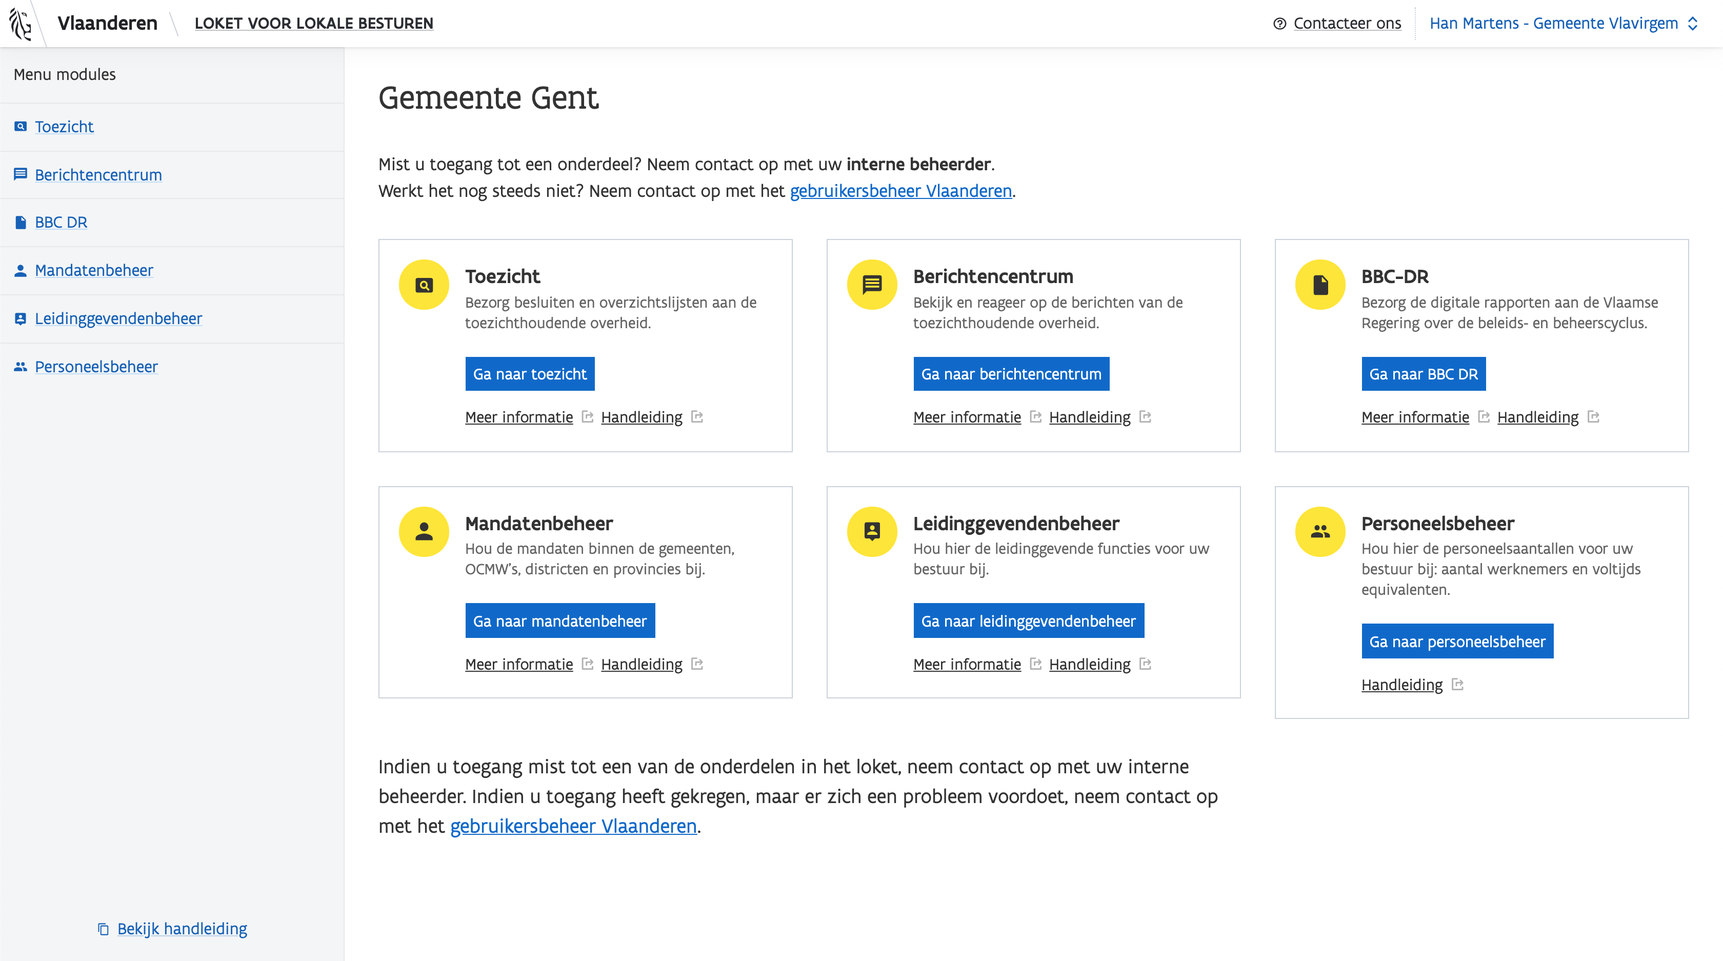
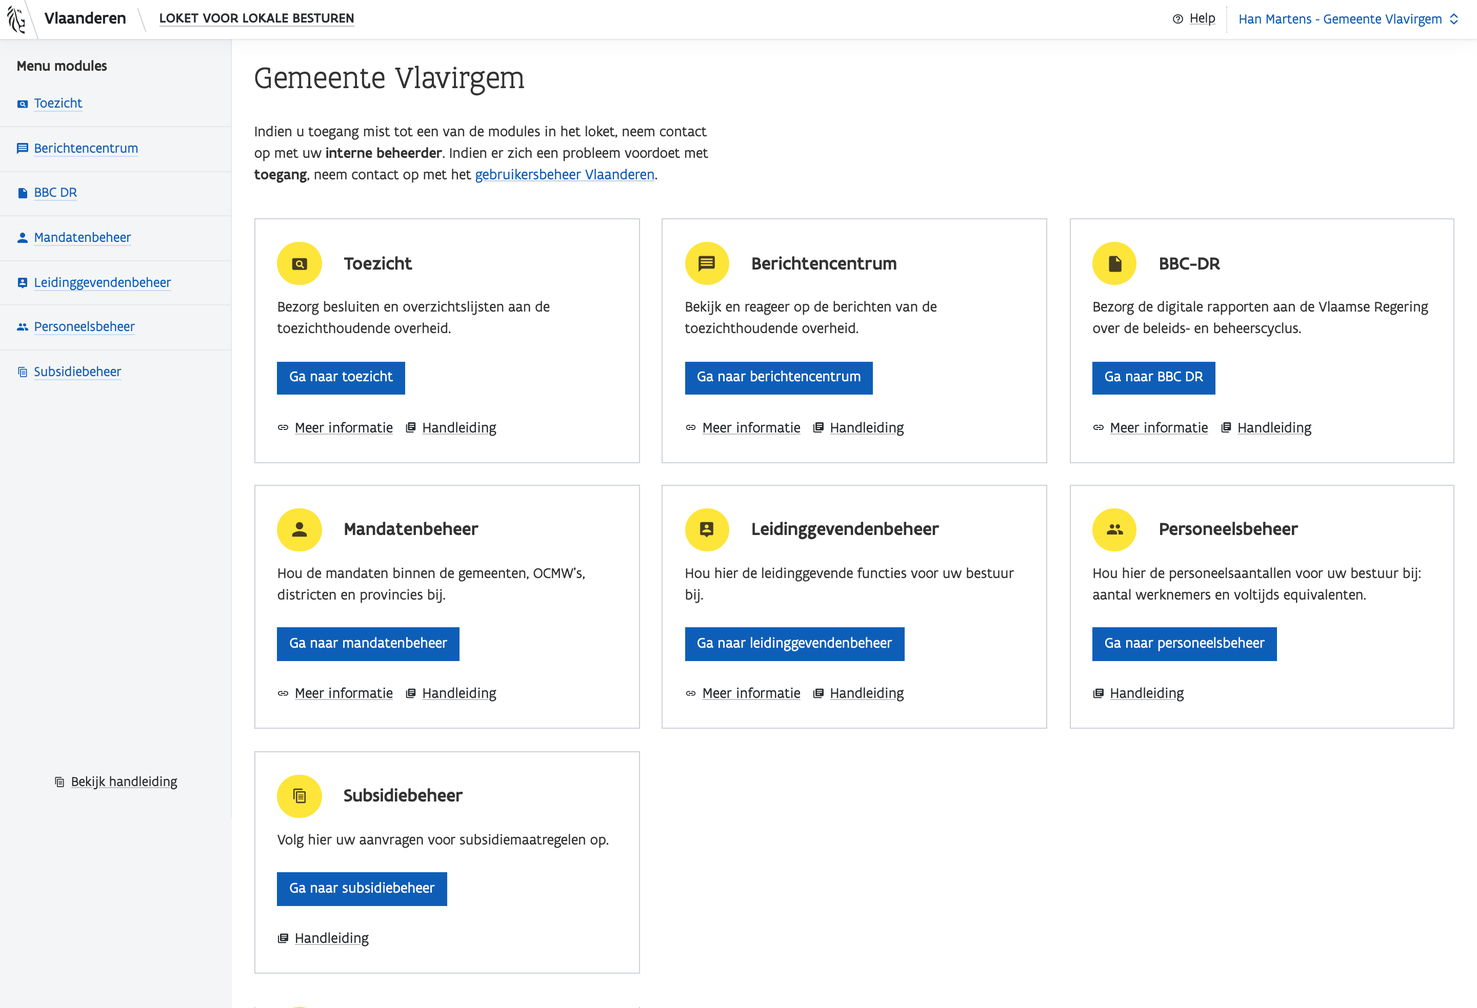
Update subsidies part

diff --git a/index.html b/index.html
@@ -80,7 +80,7 @@
         <div class="au-o-layout">
           <div class="au-c-content au-c-content--large au-u-margin-bottom-large">
             <h1>Handleiding Loket Lokaal Bestuur</h1>
-            <p>Deze handleiding behoort tot de applicatie <a href="https://loket.lokaalbestuur.vlaanderen.be/login" target="_blank" rel="noopener" class="au-c-link">Loket voor Lokale Besturen</a></p>
+            <p>Deze handleiding behoort tot de applicatie <a href="https://loket.lokaalbestuur.vlaanderen.be/login" target="_blank" rel="noopener noreferrer" class="au-c-link">Loket voor Lokale Besturen</a></p>
           </div>
           <div class="au-o-grid">
             <div class="au-o-grid__item au-u-1-2@medium">
@@ -403,8 +403,34 @@
                         </li>
                       </ul>
                     </li>
+
                     <li class="vl-side-navigation__item vl-side-navigation__item--parent">
-                      <a class="vl-side-navigation__toggle" href="#gebruikersbeheer" data-vl-child="content-12" aria-label="Navigeer naar onderdeel gebruikersbeheer">
+                      <a class="vl-side-navigation__toggle" href="#subsidiebeheer" data-vl-child="content-12" aria-label="Navigeer naar onderdeel subsidiebeheer">
+                        Subsidiebeheer
+                        <svg role="img" class="au-c-icon au-c-icon--nav-right" aria-hidden="true">
+                          <use xlink:href="assets/appuniversum-symbolset.svg#nav-right"></use>
+                        </svg>
+                      </a>
+                      <ul>
+                        <li class="vl-side-navigation__item">
+                          <a href="#subsidiebeheer-locatie" data-vl-parent="content-12" aria-label="Navigeer naar onderdeel subsidiebeheer locatie">Locatie</a>
+                        </li>
+                        <li class="vl-side-navigation__item">
+                          <div><a href="#subsidiebeheer-overzicht" data-vl-parent="content-12" aria-label="Navigeer naar onderdeel subsidiebeheer overzicht">Overzicht &amp; bekijken</a></div>
+                        </li>
+                        <li class="vl-side-navigation__item">
+                          <div><a href="#subsidiebeheer-aanleveren" data-vl-parent="content-12" aria-label="Navigeer naar onderdeel subsidie aanvragen">Een nieuwe subsidie aanvragen</a></div>
+                        </li>
+                        <li class="vl-side-navigation__item">
+                          <div><a href="#subsidiebeheer-formulier" data-vl-parent="content-12" aria-label="Navigeer naar onderdeel subsidie formulier invullen">Het formulier invullen</a></div>
+                        </li>
+                        <li class="vl-side-navigation__item">
+                          <div><a href="#subsidiebeheer-wijziging" data-vl-parent="content-12" aria-label="Navigeer naar onderdeel subsidiebeheer een wijziging doorvoeren">Een wijziging doorvoeren</a></div>
+                        </li>
+                      </ul>
+                    </li>
+                    <li class="vl-side-navigation__item vl-side-navigation__item--parent">
+                      <a class="vl-side-navigation__toggle" href="#gebruikersbeheer" data-vl-child="content-13" aria-label="Navigeer naar onderdeel gebruikersbeheer">
                         Gebruikersbeheer
                         <svg role="img" class="au-c-icon au-c-icon--nav-right" aria-hidden="true">
                           <use xlink:href="assets/appuniversum-symbolset.svg#nav-right"></use>
@@ -422,11 +448,11 @@
                   <h2 class="">Aanmelden</h2>
                   <p>Om toegang te krijgen tot het loket lokale besturen, moet u als gebruiker gekend zijn in de gebruikersbeheer lokale besturen. De <strong>lokale beheerder</strong> die in elk bestuur aanwezig is kan u hier toegang tot geven. Meestal is dit de secretaris/algemeen directeur, griffier of iemand die door de organisatie werd aangeduid. U gaat dus best bij hen ten rade als u niet weet wie uw lokale beheerder is. <a href="#gebruikersbeheer">Meer informatie over gebruikersbeheer</a>.</p>
 
-                  <p>Surf naar <a href="https://loket.lokaalbestuur.vlaanderen.be/login" target="_blank" rel="noopener">https://loket.lokaalbestuur.vlaanderen.be/login</a> om veilig naar de applicatie te surfen.</p>
+                  <p>Surf naar <a href="https://loket.lokaalbestuur.vlaanderen.be/login" target="_blank" rel="noopener noreferrer">https://loket.lokaalbestuur.vlaanderen.be/login</a> om veilig naar de applicatie te surfen.</p>
 
                   <article id="aanmelden-browser">
                     <h3>Browser: Chrome, Firefox of Safari</h3>
-                    <p>Om optimaal gebruik te maken van de applicatie, gebruikt u best <a href="https://www.google.com/chrome/" target="_blank" rel="noopener">Chrome</a>, <a href="https://www.mozilla.org/nl/firefox/new/" target="_blank" rel="noopener">Firefox</a> of Safari (Mac).</p>
+                    <p>Om optimaal gebruik te maken van de applicatie, gebruikt u best <a href="https://www.google.com/chrome/" target="_blank" rel="noopener noreferrer">Chrome</a>, <a href="https://www.mozilla.org/nl/firefox/new/" target="_blank" rel="noopener noreferrer">Firefox</a> of Safari (Mac).</p>
                     <!-- TODO IE? -->
                     <p>Het kan echter dat bepaalde functionaliteiten niet (volledig) werken zoals het hoort. Mocht u dit opmerken, kunt u ons dit altijd laten weten via <a href="mailto:LoketLokaalBestuur@vlaanderen.be">LoketLokaalBestuur@vlaanderen.be</a>.</p>
                   </article>
@@ -462,11 +488,11 @@
                     </li>
                     <li>
                       <h4>Internet Explorer</h4>
-                      <p>Bezoek <a href="https://support.microsoft.com/nl-be/help/17479/windows-internet-explorer-11-change-security-privacy-settings" target="_blank" rel="noopener">https://support.microsoft.com/nl-be/help/17479/windows-internet-explorer-11-change-security-privacy-settings</a> en kies <strong>Pop-upblokkering</strong>.
+                      <p>Bezoek <a href="https://support.microsoft.com/nl-be/help/17479/windows-internet-explorer-11-change-security-privacy-settings" target="_blank" rel="noopener noreferrer">https://support.microsoft.com/nl-be/help/17479/windows-internet-explorer-11-change-security-privacy-settings</a> en kies <strong>Pop-upblokkering</strong>.
                     </li>
                     <li>
                       <h4>Edge</h4>
-                      <p>Bezoek <a href="https://support.microsoft.com/nl-be/help/4026392/windows-block-pop-ups-in-microsoft-edge" target="_blank" rel="noopener">https://support.microsoft.com/nl-be/help/4026392/windows-block-pop-ups-in-microsoft-edge</a>.
+                      <p>Bezoek <a href="https://support.microsoft.com/nl-be/help/4026392/windows-block-pop-ups-in-microsoft-edge" target="_blank" rel="noopener noreferrer">https://support.microsoft.com/nl-be/help/4026392/windows-block-pop-ups-in-microsoft-edge</a>.
                     </li>
                   </ul>
 
@@ -523,7 +549,7 @@
                   </article>
 
                   <h3>Probleem</h3>
-                  <p>Indien u toegang wil aanvragen tot het loket, neem contact op met uw lokale beheerder. Indien er zich een probleem voordoet, bekijk de mogelijke problemen en hun oplossingen op <a href="https://overheid.vlaanderen.be/ict/ict-diensten/gebruikersbeheer" target="_blank" rel="noopener">gebruikersbeheer Vlaanderen</a>. Vindt u daar het antwoord niet, neem contact op met 1700.</p>
+                  <p>Indien u toegang wil aanvragen tot het loket, neem contact op met uw lokale beheerder. Indien er zich een probleem voordoet, bekijk de mogelijke problemen en hun oplossingen op <a href="https://overheid.vlaanderen.be/ict/ict-diensten/gebruikersbeheer" target="_blank" rel="noopener noreferrer">gebruikersbeheer Vlaanderen</a>. Vindt u daar het antwoord niet, neem contact op met 1700.</p>
                 </section>
 
                 <hr class="au-c-hr au-c-hr--huge" />
@@ -536,7 +562,7 @@
                   <p>Na het kiezen van een module, kan u bovenaan altijd terugkeren naar het hoofdmenu of op de dropdown "Menu Modules" klikken.</p>
                   <img src="img/navigatie/breadcrumb.png" class="au-c-manual-picture au-u-margin-bottom" alt="">
                   <img src="img/navigatie/dropdown.png" class="au-c-manual-picture au-u-margin-bottom" alt="">
-                  <p>Indien u toegang wil aanvragen tot bepaalde onderdelen van het loket, neem contact op met uw lokale beheerder Indien er zich een probleem voordoet, bekijk de mogelijke problemen en hun oplossingen op <a href="https://overheid.vlaanderen.be/ict/ict-diensten/gebruikersbeheer" target="_blank" rel="noopener">gebruikersbeheer Vlaanderen</a>. Vindt u daar het antwoord niet, neem contact op met 1700.</p>
+                  <p>Indien u toegang wil aanvragen tot bepaalde onderdelen van het loket, neem contact op met uw lokale beheerder Indien er zich een probleem voordoet, bekijk de mogelijke problemen en hun oplossingen op <a href="https://overheid.vlaanderen.be/ict/ict-diensten/gebruikersbeheer" target="_blank" rel="noopener noreferrer">gebruikersbeheer Vlaanderen</a>. Vindt u daar het antwoord niet, neem contact op met 1700.</p>
                 </section>
 
                 <hr class="au-c-hr au-c-hr--huge" />
@@ -568,7 +594,7 @@
                     <p>Via de knop rechts <strong>Maak nieuwe melding</strong> kan u een type besluit of besluitenlijst versturen.</p>
                     <img src="img/toezicht/toezicht-0-0-overzicht-empty.png" class="au-u-margin-bottom-large au-c-manual-picture" alt="">
 
-                    <p>Eerst kan u bij het veld <strong>Type dossier</strong> kiezen tussen het aanleveren van dossiers. U kan scrollen doorheen de lijst, of typen in het zoekveld om het type dossier te vinden.</p>
+                    <p>Eerst kan u bij het veld <strong>Type dossier</strong> kiezen tussen de dossiers die u kan aanleveren. U kan scrollen doorheen de lijst, of typen in het zoekveld om het type dossier te vinden.</p>
                     <img src="img/toezicht/toezicht-2-1-dropdown.png" class="au-c-manual-picture au-u-margin-bottom" alt="">
 
                     <div class="au-o-grid">
@@ -620,7 +646,7 @@
 
                 <hr class="au-c-hr au-c-hr--huge">
 
-                <!-- --------------------------------- Gebruikersbeheer ---------------------------------------------------------->
+                <!-- --------------------------------- Berichtencentrum ---------------------------------------------------------->
                 <section id="berichtencentrum" class="vl-region au-c-content">
                   <h2>Berichtencentrum</h2>
                   <p>We gebruiken de Module Berichtencentrum voor een deel van de digitale communicatie tussen de lokale besturen en de toezichthoudende overheid.</p>
@@ -2052,13 +2078,117 @@
 
                 <hr class="au-c-hr au-c-hr--huge" />
 
+
+                <!-- --------------------------------- Subsidiebeheer ---------------------------------------------------------- -->
+                <section id="subsidiebeheer" class="vl-region au-c-content">
+                  <h2>Subsidiebeheer</h2>
+
+                  <div id="subsidiebeheer-locatie">
+                    <h3>Locatie</h3>
+                    <p>U kan via de overzichtspagina of via de knop "Menu modules" naar het subsidiebeheer navigeren. Hier kan u nieuwe subsidieaanvragen indienen waarvoor een oproep is gelanceerd.</p>
+                    <img src="img/navigatie/navigatie-overzicht-subsidiebeheer.png" class="au-c-manual-picture au-u-margin-bottom" alt="">
+                  </div>
+
+                  <div id="subsidiebeheer-overzicht">
+                    <h3 class="au-u-margin-bottom-small">Overzicht &amp; bekijken</h3>
+
+                    <h4>Overzicht</h4>
+                    <p>In eerste instantie zal uw overzicht leeg zijn. Concepten en verstuurde subsidieaanvragen komen in dit overzicht terecht. U kan een nieuwe subsidie aanvragen door op de knop <strong>Vraag nieuwe subsidie aan</strong> te klikken.</p>
+                    <img src="img/subsidies/subsidies-0-0-overzicht-empty.png" class="au-c-manual-picture" alt="">
+                    <p class="au-u-margin-bottom-large">Ontdek hier meer <a href="http://miet.be" target="_blank" rel="noopener noreferrer">informatie over de subsidieoproepen waarvoor u hier een subsidieaanvraag kan indienen</a>.</p>
+
+                    <h4>Bekijken</h4>
+                    <p>U kan de details van uw subsidieaanvraag bekijken door op Bekijk te klikken.
+                    </p>
+                    <img src="img/subsidies/subsidies-0-0-overzicht-full.png" class="au-c-manual-picture" alt="">
+                    <ul class="au-u-margin-bottom-large">
+                      <li>Subsidieaanvragen met status <strong>Concept</strong>: deze aanvraag is nog niet verzonden naar de Vlaamse overheid, u kan de velden in het formulier nog aanpassen en aanvullen.</li>
+                      <li>Subsidieaanvragen met status <strong>Verstuurd</strong>: deze aanvraag is verzonden naar de Vlaamse overheid, u kan de velden in het formulier niet meer aanpassen. Indien u vragen heeft of een fout wil rechtzetten, stuur een mail naar <a href="mailto:LoketLokaalBestuur@vlaanderen.be" class="au-c-link">LoketLokaalBestuur@vlaanderen.be</a>.</li>
+                    </ul>
+                  </div>
+
+                  <div id="subsidiebeheer-aanleveren">
+                    <h3>Een nieuwe subsidie aanvragen</h3>
+                    <p>Via de knop rechts <strong>Vraag nieuwe subsidie</strong> kan u een nieuwe subsidie aanvragen.</p>
+                    <img src="img/subsidies/subsidies-0-0-overzicht-empty.png" class="au-c-manual-picture" alt="">
+
+                    <p class="au-u-margin-bottom-large">Ontdek hier meer <a href="http://miet.be" target="_blank" rel="noopener noreferrer">informatie over de subsidieoproepen waarvoor u hier een subsidieaanvraag kan indienen</a>.</p>
+                  </div>
+
+                  <div id="subsidiebeheer-formulier">
+                    <h3>Formulier invullen</h3>
+                    <p class="au-u-margin-bottom">Afhankelijk van de subsidieoproep waarvoor u een aanvraag wenst in de dienen, krijgt u andere velden om in te vullen.</p>
+
+                    <h4 class="au-u-margin-bottom-small" id="subsidiebeheer-formulier-aanvrager">Aanvrager</h4>
+                    <p class="au-u-margin-bottom">Het veld <strong>Aanvrager</strong> wordt automatisch ingevuld, met de bestuurseenheid waarmee u bent ingelogd in het loket van lokale besturen. Dit veld kan u niet aanpassen.</p>
+                    <p>Wenst u een subsidie in te dienen voor een andere bestuurseenheid (vb. OCMW), dan klikt u op de dubbele pijltjes, rechtsboven het scherm, en kiest u voor <a href="#wisselen-bestuurseenheid">Wissel van bestuurseenheid</a>. U logt in met de gewenste bestuurseenheid en start een nieuwe subsidieaanvraag.</p>
+                    <img src="img/subsidies/subsidies-1-nieuw.png" class="au-c-manual-picture au-u-margin-bottom-large" alt="">
+
+                    <h4 id="subsidiebeheer-formulier-subsidie" class="au-u-margin-bottom-small">Kies subsidie</h4>
+                    <h5>Kies eerst de subsidiemaatregel.</h5>
+                    <p>Eerst kan u bij het veld <strong>subsidiemaatregel</strong> kiezen, de soort subsidie. U kan scrollen doorheen de lijst, of typen in het zoekveld om het type dossier te vinden.</p>
+                    <img src="img/subsidies/subsidies-2-1-dropdown-1.png" class="au-c-manual-picture au-u-margin-bottom" alt="">
+
+                    <h5>Kies vervolgens de reeks</h5>
+                    <p>Selecteer daarna de reeks, of periode, waarvoor u een subsidie wenst aan te vragen.</p>
+                    <img src="img/subsidies/subsidies-2-1-dropdown-2.png" class="au-c-manual-picture au-u-margin-bottom" alt="">
+
+                    <ul>
+                      <li>U kan één reeks per subsidieaanvraag indienen. Indien u ook subsidies wenst aan te vragen voor een andere periode, dient u een nieuwe subsidieaanvraag in.</li>
+                      <li>Indien de reeks die u zoekt niet wordt getoond, dan
+                        <ul>
+                          <li>dan wordt deze niet beschikbaar gesteld;</li>
+                          <li>is deze nog niet gestart;</li>
+                          <li>is deze inmiddels afgelopen.</li>
+                        </ul>
+                      </li>
+                    </ul>
+
+                    <p class="au-u-margin-bottom-small">Vervolgens verschijnen de overige velden, die afhankelijk zijn van het type subsidiemaatregel en de reeks die u gekozen heeft.</p>
+                    <img src="img/subsidies/subsidies-2-2-dropdown-result.png" class="au-c-manual-picture au-u-margin-bottom" alt="">
+
+                    <h4 class="au-u-margin-bottom-small" id="subsidiebeheer-formulier-contactgegevens">Contactgegevens contactpersoon</h4>
+                    <p>Geef de contactgegevens op van de <strong>persoon die gecontacteerd zal worden bij de opvolging</strong> van dit dossier: voornaam, familienaam, telefoonnummer en mailadres.</p>
+                    <img src="img/subsidies/subsidies-3-0-contactgegevens.png" class="au-c-manual-picture au-u-margin-bottom-small" alt="">
+                    <p class="au-u-margin-bottom">Denk er ook aan dat, moest deze persoon er niet zijn, anderen eventueel kunnen overnemen.</p>
+
+                    <h4 class="au-u-margin-bottom-small" id="subsidiebeheer-formulier-betaling">Betaling</h4>
+                    <p class="au-u-margin-bottom-small">Voer het bankrekeningnummer in waarop de subsidie gestort mag worden.
+                    <ul>
+                      <li>Indien u het bankrekeningnummer heeft ingevoerd van het Gemeentefonds, hoeft u geen bijlage toe te voegen.</li>
+                      <li>Indien u een <strong>ander bankrekeningnummer kiest, dient u een bevestingsbrief toe te voegen dat dit rekeningnummer gebruikt mag worden, ondertekend door de burgemeester en medeondertekend door de financieel directeur</strong>, in PDF formaat.</li>
+                    </ul>
+
+                    <img src="img/subsidies/subsidies-3-1-betaling.png" class="au-c-manual-picture au-u-margin-bottom" alt="">
+
+                    <p class="au-u-margin-bottom-small">Vervolgens ziet u velden die specifiek zijn voor het type subsidie en de reeks die u gekozen heeft. Vul al de verplichte velden in, en klik dan op "verstuur". U kan tussentijds concepten bewaren.</p>
+                    <p>Bekijk meer <a href="http://miet.be" target="_blank" rel="noopener noreferrer">informatie over de subsidieoproepen waarvoor u hier een subsidieaanvraag kan indienen</a>, indien u hulp wil bij het invullen van deze velden.</p>
+                    <img src="img/subsidies/subsidies-3-2-specifiek.png" class="au-c-manual-picture au-u-margin-bottom" alt="">
+
+                    <div id="subsidiebeheer-wijziging">
+                      <h4>Een wijziging doorvoeren</h4>
+                      <div class="au-o-grid">
+                        <div class="au-o-grid__item">
+                          <p>Een verstuurde subsidieaanvraag kan enkel bekeken worden. U kan de bijlagen wel downloaden, maar niet aanpassen of verwijderen. Indien u een fout heeft ontdekt of een vraag heeft, neem contact op met <a href="mailto:LoketLokaalBestuur@vlaanderen.be" class="au-c-link">LoketLokaalBestuur@vlaanderen.be</a>.</p>
+                          <img src="img/subsidies/subsidies-4-1-verstuurd.png" class="au-c-manual-picture au-u-margin-bottom"  alt="">
+                        </div>
+                        <div class="au-o-grid__item">
+                          <p>Een concept kan bewerkt worden en bewaard, verstuurd of verwijderd.</p>
+                          <img src="img/subsidies/subsidies-4-0-concept.png" class="au-c-manual-picture au-u-margin-bottom"  alt="">
+                        </div>
+                      </div>
+                    </div>
+                  </div>
+                </section>
+                <hr class="au-c-hr au-c-hr--huge" />
+
                 <!-- --------------------------------- Gebruikersbeheer ---------------------------------------------------------->
                 <section id="gebruikersbeheer" class="vl-region au-c-content">
                   <h2>Gebruikersbeheer</h2>
                   <p>Om toegang te krijgen tot het loket lokale besturen, moet u de nodige toegangsrechten gekregen hebben via het gebruikers- en toegangsbeheer. Dit gebeurt door de <strong>lokale beheerder</strong> die in elk bestuur aanwezig is. Meestal is dit de secretaris/algemeen directeur, griffier of iemand die door de organisatie werd aangeduid. U gaat dus best bij hen ten rade als u niet weet wie uw lokale beheerder is.</p>
 
                   <h3>Aanmelden en navigeren</h3>
-                  <p>Om als lokale beheerder rechten toe te kennen aan gebruikers, surft u naar <a href="https://vo-gebruikersbeheer.vlaanderen.be" target="_blank" rel="noopener">https://vo-gebruikersbeheer.vlaanderen.be</a>. Meld u aan met uw favoriete aanmeldingssysteem.</p>
+                  <p>Om als lokale beheerder rechten toe te kennen aan gebruikers, surft u naar <a href="https://vo-gebruikersbeheer.vlaanderen.be" target="_blank" rel="noopener noreferrer">https://vo-gebruikersbeheer.vlaanderen.be</a>. Meld u aan met uw favoriete aanmeldingssysteem.</p>
                   <img src="img/gebruikersbeheer/gebruikersbeheer-0-login.png" class="au-c-manual-picture au-u-margin-bottom" alt="">
 
                   <p>Kies vervolgens de juiste doelgroep, en het bestuur waar u zich voor wil aanmelden.</p>
@@ -2116,18 +2246,17 @@
                       Context Gebruiker Leidinggevendenbeheer: recht op onderdeel <strong><a href="#leidinggevendenbeheer">leidinggevendenbeheer</a></strong>.
                     </li>
                     <li class="au-c-icon-list__item">
-                      <svg role="img" class="au-c-icon au-c-icon--cross  au-c-icon--large" aria-hidden="true">
-                        <use xlink:href="assets/appuniversum-symbolset.svg#cross"></use>
+                      <svg role="img" class="au-c-icon au-c-icon--check  au-c-icon--large" aria-hidden="true">
+                        <use xlink:href="assets/appuniversum-symbolset.svg#check"></use>
                       </svg>
-                      Context Gebruiker Personeelsbeheer: recht op onderdeel <strong>personeelsbeheer</strong>.<br>
-                      &mdash; u kan de rechten al toekennen, maar de applicatie is later pas beschikbaar.
+                      Context Gebruiker Personeelsbeheer: recht op onderdeel <strong><a href="#personeelsbeheer">personeelsbeheer</a></strong>.
                     </li>
                     <li class="au-c-icon-list__item">
                       <svg role="img" class="au-c-icon au-c-icon--cross  au-c-icon--large" aria-hidden="true">
-                        <use xlink:href="assets/appuniversum-symbolset.svg#cross"></use>
+                        <use xlink:href="assets/appuniversum-symbolset.svg#check"></use>
                       </svg>
-                      Context Gebruiker Subsidies: recht op onderdeel <strong>subsidies</strong>.<br>
-                      &mdash; u kan de rechten al toekennen, maar de applicatie is later pas beschikbaar.
+                      Context Gebruiker Subsidies: recht op onderdeel <strong><a href="#subsidiebeheer">subsidiebeheer</a></strong>.<br>
+                      &mdash; u kan de rechten al toekennen, maar de applicatie is nog niet beschikbaar voor elk bestuur.
                     </li>
                   </ul>
                   <img src="img/gebruikersbeheer/gebruikersbeheer-11-0-contexten.png" class="au-c-manual-picture" alt="">
@@ -2148,7 +2277,7 @@
                   <img src="img/gebruikersbeheer/gebruikersbeheer-14-success.png" class="au-c-manual-picture au-u-margin-bottom" alt="">
 
                   <h3>Probleem</h3>
-                  <p>Indien er zich een probleem voordoet, neem contact op met het <a href="https://overheid.vlaanderen.be/ict/ict-diensten/gebruikersbeheer" target="_blank" rel="noopener">gebruikersbeheer Vlaanderen</a>.</p>
+                  <p>Indien er zich een probleem voordoet, neem contact op met het <a href="https://overheid.vlaanderen.be/ict/ict-diensten/gebruikersbeheer" target="_blank" rel="noopener noreferrer">gebruikersbeheer Vlaanderen</a>.</p>
                 </section>
 
                 <hr class="au-c-hr au-c-hr--huge" />
